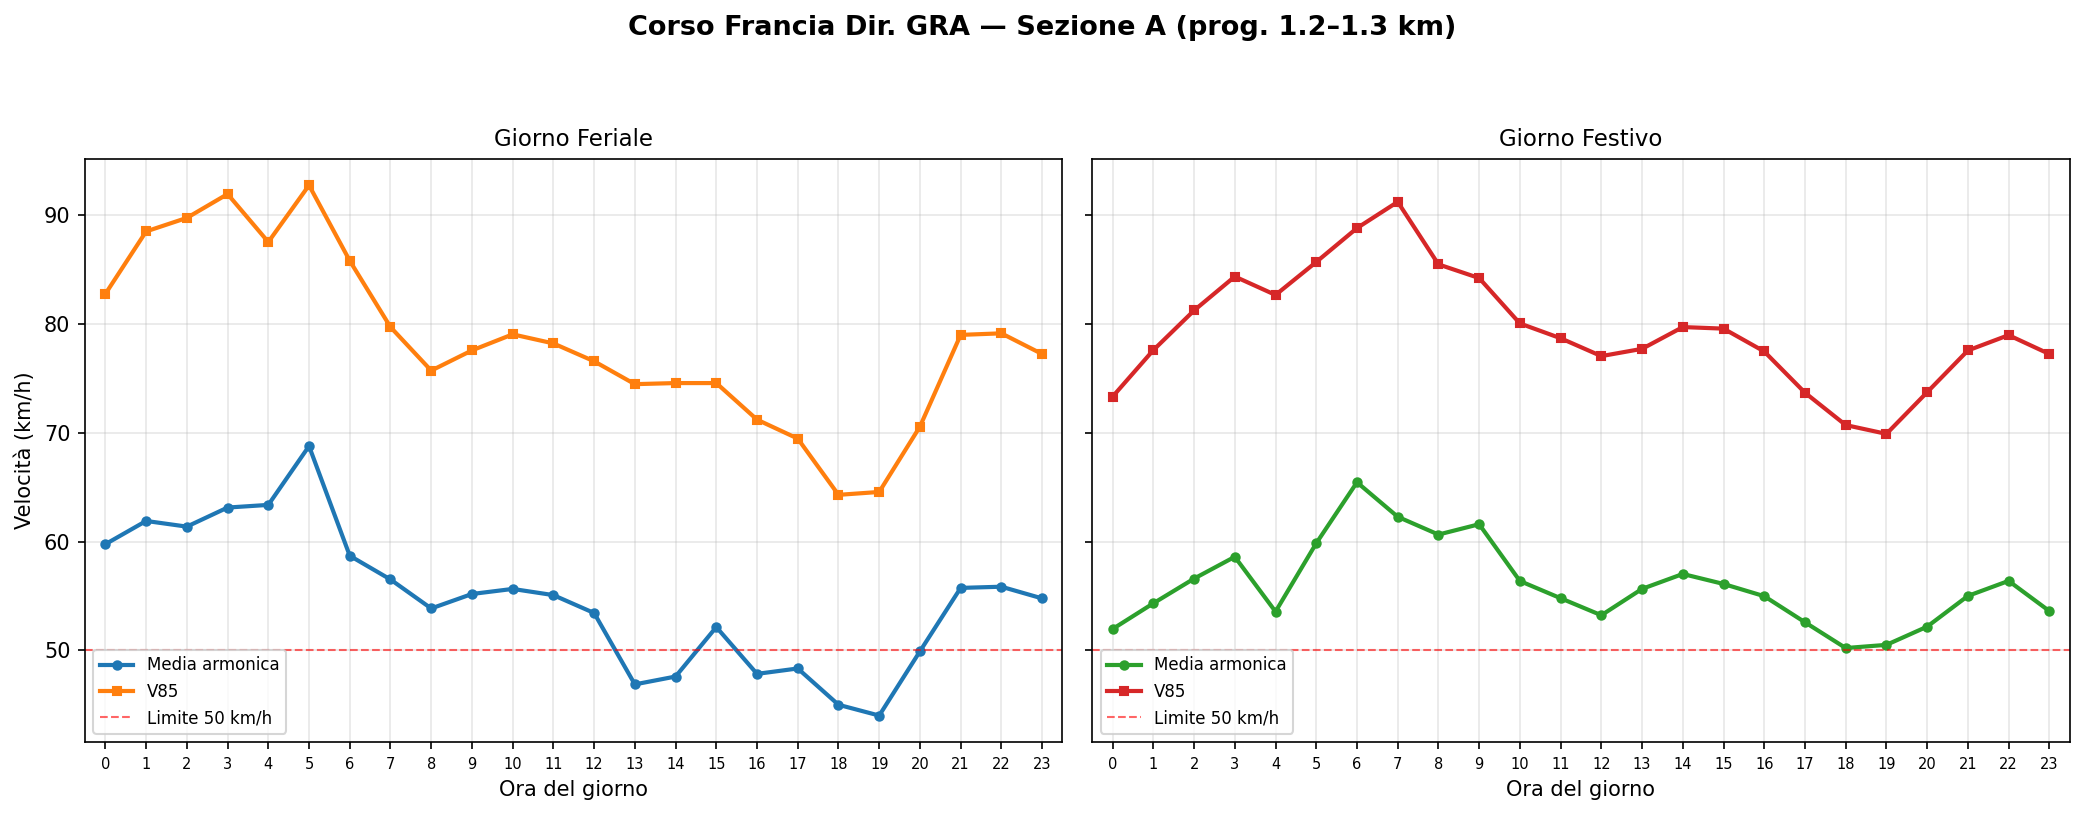
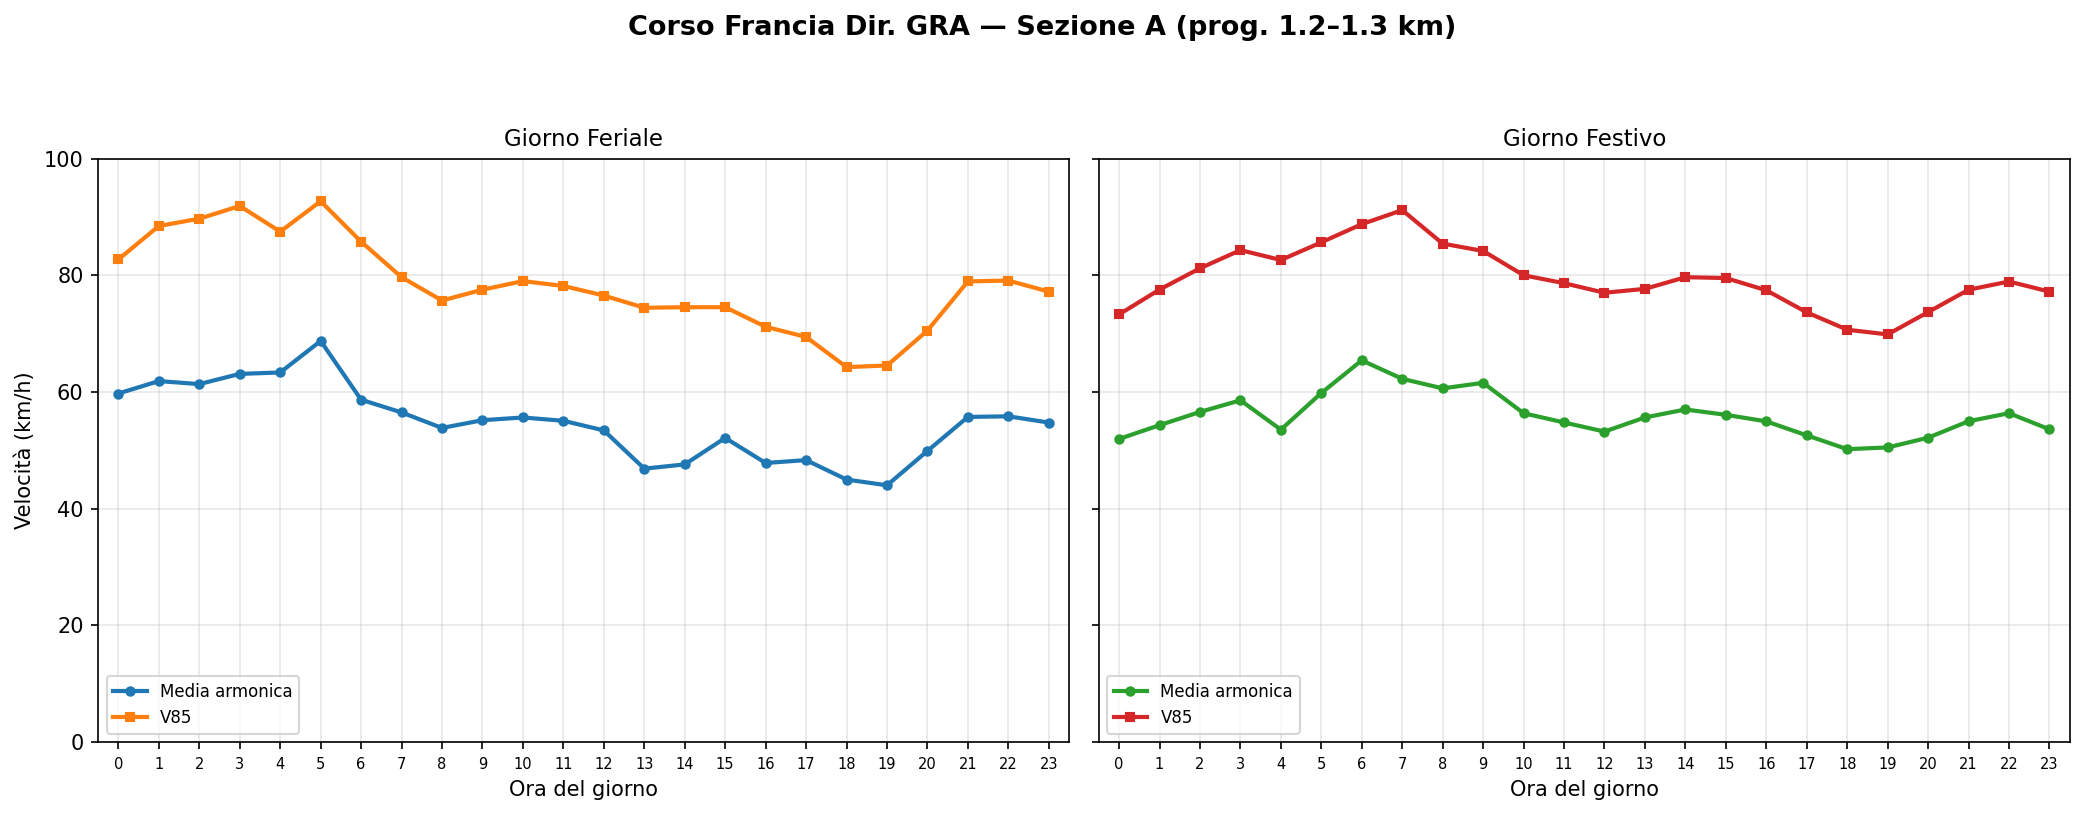
Remove speed limit line and fix Y axis to 0-100 km/h on section charts
https://claude.ai/code/session_01C9yS1ptJzWrM5YXS1NsW3z

diff --git a/analisi_sezioni_corso_francia.py b/analisi_sezioni_corso_francia.py
@@ -138,14 +138,12 @@ def make_chart(section_name, feriali_speeds, festivi_speeds, output_path):
         ax.plot(hours, v85,  marker="s", markersize=4, linewidth=2,
                 color=color_85, label="V85")
 
-        # speed limit reference
-        ax.axhline(y=50, color="red", linestyle="--", linewidth=1, alpha=0.6, label="Limite 50 km/h")
-
         ax.set_title(day_label, fontsize=11)
         ax.set_xlabel("Ora del giorno")
         ax.set_xticks(hours)
         ax.set_xticklabels([f"{h}" for h in hours], fontsize=7)
         ax.set_xlim(-0.5, 23.5)
+        ax.set_ylim(0, 100)
         ax.grid(True, alpha=0.3)
         ax.legend(fontsize=8, loc="lower left")
 
